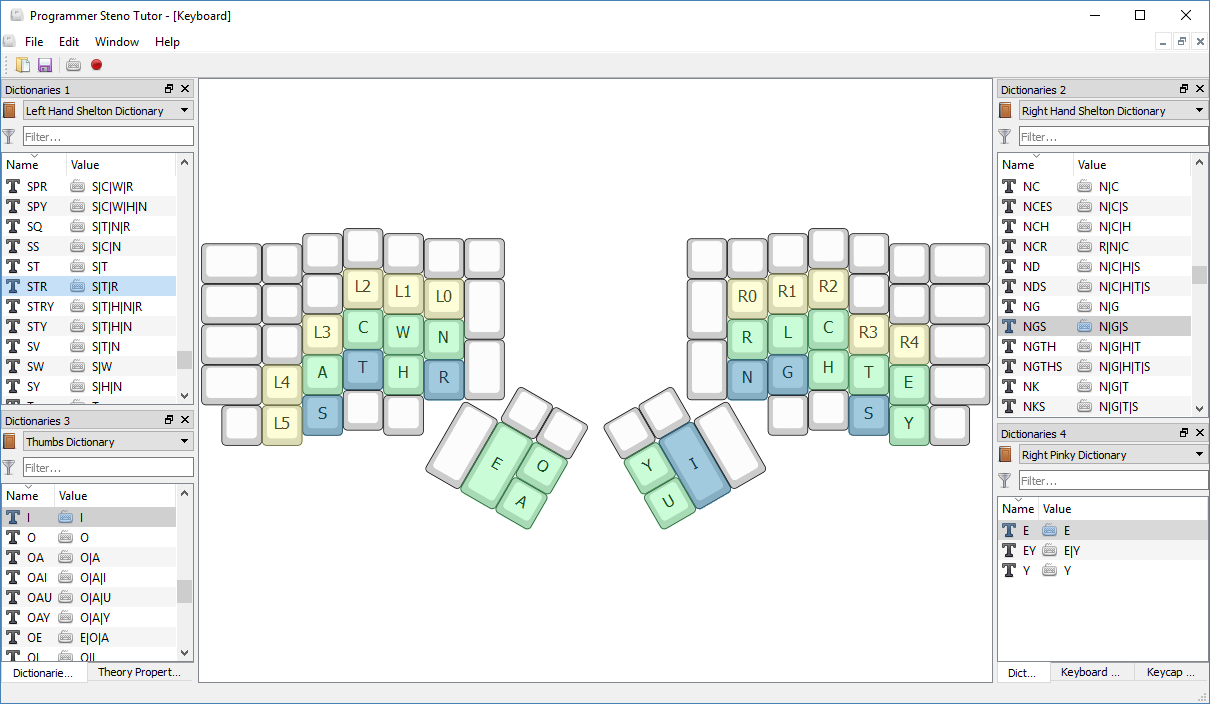
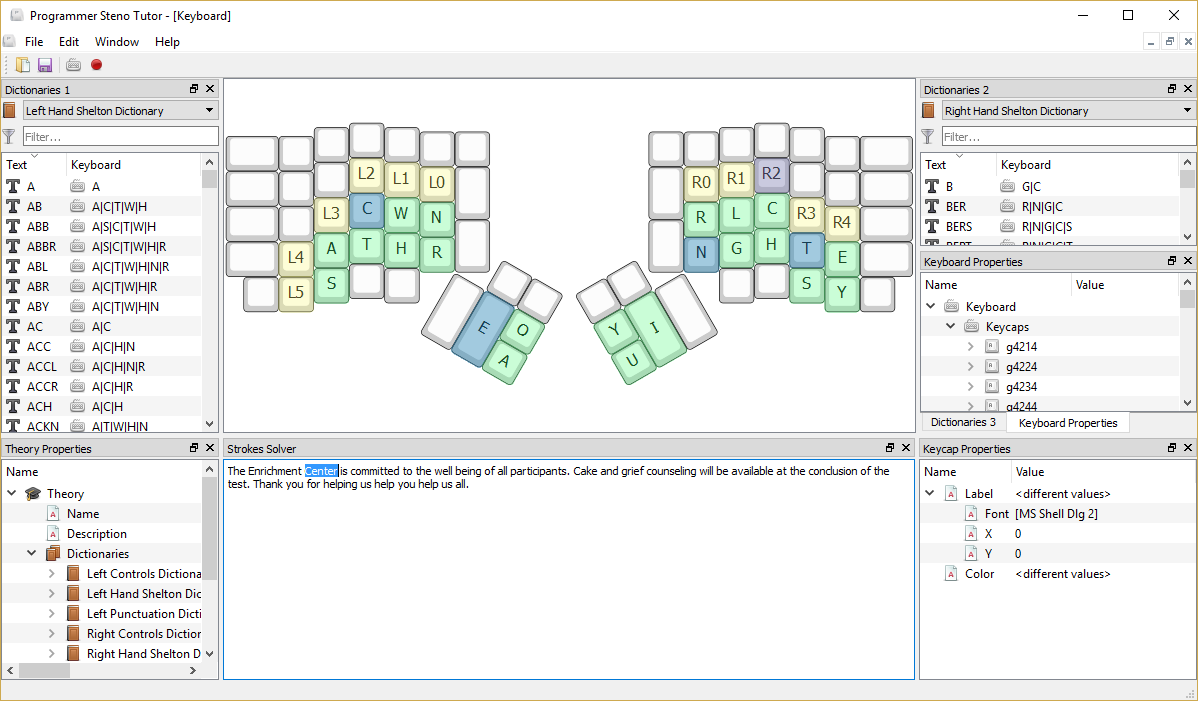
Strokes solver done

diff --git a/Sources/StrokesSolver/StrokesSolverTextEdit.cpp b/Sources/StrokesSolver/StrokesSolverTextEdit.cpp
@@ -1,0 +1,107 @@
+// ======================================================================
+// This file is a part of the ProgrammerStenoTutor project
+//
+// Copyright (C) 2017  Vissale NEANG <fromtonrouge at gmail dot com>
+//
+// This program is free software: you can redistribute it and/or modify
+// it under the terms of the GNU General Public License as published by
+// the Free Software Foundation, either version 3 of the License, or
+// (at your option) any later version.
+//
+// This program is distributed in the hope that it will be useful,
+// but WITHOUT ANY WARRANTY; without even the implied warranty of
+// MERCHANTABILITY or FITNESS FOR A PARTICULAR PURPOSE.  See the
+// GNU General Public License for more details.
+//
+// You should have received a copy of the GNU General Public License
+// along with this program.  If not, see <http://www.gnu.org/licenses/>.
+// ======================================================================
+
+#include "StrokesSolverTextEdit.h"
+#include "Theories/TheoryModel.h"
+#include "Main/Application.h"
+#include <QtCore/QRegularExpression>
+#include <QtCore/QDebug>
+
+StrokesSolverTextEdit::StrokesSolverTextEdit(QWidget* pParent)
+    : QTextEdit(pParent)
+{
+    connect(this, SIGNAL(cursorPositionChanged()), this, SLOT(onCursorPositionChanged()));
+}
+
+void StrokesSolverTextEdit::onCursorPositionChanged()
+{
+    // Hard coded at the moment
+    QStringList dictionariesToParse;
+    dictionariesToParse << "Left Hand Shelton Dictionary";
+    dictionariesToParse << "Thumbs Bigrams Dictionary";
+    dictionariesToParse << "Thumbs Dictionary";
+    dictionariesToParse << "Right Hand Shelton Dictionary";
+    dictionariesToParse << "Right Controls Dictionary";
+    dictionariesToParse << "Right Pinky Dictionary";
+    //dictionariesToParse << "Left Punctuation Dictionary";
+    //dictionariesToParse << "Right Punctuation Dictionary";
+
+    for (const auto& sDictionaryName : dictionariesToParse)
+    {
+        emit strokeFound(sDictionaryName, QBitArray());
+    }
+
+    // Check first if we have cached dictionaries data
+    auto pTheoryModel = qApp->getTheoryModel();
+    const auto& dictionaries = pTheoryModel->getCachedDictionaries();
+    if (dictionaries.isEmpty())
+    {
+        return;
+    }
+
+    // Get the next word to solve from the current cursor position
+    auto cursor = textCursor();
+    QTextCursor findCursor = document()->find(QRegularExpression("[ \\t]"), cursor);
+    if (findCursor.isNull())
+    {
+        cursor.movePosition(QTextCursor::EndOfWord, QTextCursor::KeepAnchor);
+    }
+    else
+    {
+        cursor.setPosition(findCursor.position(), QTextCursor::KeepAnchor);
+    }
+
+    QString sTextToSolve = cursor.selectedText().toUpper();
+    if (sTextToSolve == " ")
+    {
+        cursor.movePosition(QTextCursor::EndOfWord, QTextCursor::KeepAnchor);
+        sTextToSolve = cursor.selectedText().toUpper();
+    }
+
+    if (!sTextToSolve.isEmpty())
+    {
+        sTextToSolve = sTextToSolve.trimmed(); // Remove leading space
+
+        // Try to find a match for the first dictionary
+        auto itDictionary = dictionariesToParse.begin();
+        while (itDictionary != dictionariesToParse.end())
+        {
+            QBitArray bits;
+            auto entries = dictionaries[*itDictionary];
+            const int iSize = sTextToSolve.size();
+            for (int iChar = iSize - 1; iChar >= 0; --iChar)
+            {
+                const QString& subString = sTextToSolve.left(iChar + 1);
+                auto itEntry = entries.find(subString);
+                if (itEntry != entries.end())
+                {
+                    bits = itEntry.value();
+                    sTextToSolve = sTextToSolve.right(iSize - iChar - 1);
+                    break;
+                }
+            }
+
+            if (!bits.isNull())
+            {
+                emit strokeFound(*itDictionary, bits);
+            }
+            itDictionary++;
+        }
+    }
+}

diff --git a/Sources/Theories/TheoryModel.cpp b/Sources/Theories/TheoryModel.cpp
@@ -63,12 +63,15 @@ QVariant TheoryModel::data(const QModelIndex& index, int iRole) const
 void TheoryModel::setDictionaries(const Dictionaries& dictionaries)
 {
     auto pTheoryTreeItem = getTheoryTreeItem();
+
+    // Clear existing dictionaries
     auto pDictionaries = pTheoryTreeItem->getDictionaries();
     if (pDictionaries->hasChildren())
     {
         pDictionaries->removeRows(0, pDictionaries->rowCount());
     }
 
+    // Insert new dictionaries
     for (const auto& dictionary : dictionaries)
     {
         auto pDictionaryItem = new DictionaryTreeItem(dictionary.getName(), dictionary.getKeysLabels());
@@ -91,6 +94,8 @@ void TheoryModel::setDictionaries(const Dictionaries& dictionaries)
             }
         }
     }
+
+    buildCache();
     emit dictionariesLoaded();
 }
 
@@ -104,6 +109,8 @@ void TheoryModel::setTheoryTreeItem(TheoryTreeItem* pTheoryTreeItem)
 {
     clear();
     appendRow({pTheoryTreeItem, new EmptyTreeItem()});
+
+    buildCache();
     emit dictionariesLoaded();
     setHorizontalHeaderLabels(QStringList() << tr("Name") << tr("Value"));
 }
@@ -135,4 +142,44 @@ QString TheoryModel::getTheoryName() const
         return indexTheoryName.data(Qt::DisplayRole).toString();
     }
     return QString();
+}
+
+void TheoryModel::buildCache()
+{
+    _cache.clear();
+    const QModelIndex& indexDictionaries = getDictionariesIndex();
+    if (indexDictionaries.isValid())
+    {
+        const int iDictionaries = rowCount(indexDictionaries);
+        for (int iDictionary = 0; iDictionary < iDictionaries; ++iDictionary)
+        {
+            const QModelIndex& indexDictionary = index(iDictionary, 0, indexDictionaries);
+            const QString& sDictionaryName = indexDictionary.data(Qt::DisplayRole).toString();
+            if (!sDictionaryName.isEmpty())
+            {
+                const QModelIndex& indexEntries = Utils::index(this, "Entries", 0, indexDictionary);
+                if (indexEntries.isValid())
+                {
+                    CacheDictionaryEntries entries;
+                    const int iEntries = rowCount(indexEntries);
+                    for (int iEntry = 0; iEntry < iEntries; ++iEntry)
+                    {
+                        const QModelIndex& indexEntry = index(iEntry, 0, indexEntries);
+                        const QModelIndex& indexEntryBits = index(iEntry, 1, indexEntries);
+                        const QString& sText = indexEntry.data(Qt::DisplayRole).toString();
+                        const QBitArray& bits = indexEntryBits.data(InputKeyBitsRole).toBitArray();
+                        if (sText != "<no_entry>")
+                        {
+                            entries.insert(sText, bits);
+                        }
+                    }
+
+                    if (!entries.isEmpty())
+                    {
+                        _cache.insert(sDictionaryName, entries);
+                    }
+                }
+            }
+        }
+    }
 }

diff --git a/Sources/Keyboards/KeyboardModel.cpp b/Sources/Keyboards/KeyboardModel.cpp
@@ -248,23 +248,28 @@ void KeyboardModel::selectLinkedKeys(const QString& sDictionaryName, const QBitA
             if (indexLinkedKeys.isValid())
             {
                 const int iLinkedKeycaps = rowCount(indexLinkedKeys);
-                if (iLinkedKeycaps == inputsKeysBits.size())
+                QVector<QPair<QString, bool>> keycapsStates(iLinkedKeycaps);
+                for (int iLinkedKeycap = 0; iLinkedKeycap < iLinkedKeycaps; ++iLinkedKeycap)
                 {
-                    QVector<QPair<QString, bool>> keycapsStates(inputsKeysBits.size());
-                    for (int iLinkedKeycap = 0; iLinkedKeycap < iLinkedKeycaps; ++iLinkedKeycap)
+                    const QModelIndex& indexKeycapId = indexLinkedKeys.child(iLinkedKeycap, 1);
+                    const QVariant& variant = indexKeycapId.data(Qt::EditRole);
+                    if (variant.isValid())
                     {
-                        const QModelIndex& indexKeycapId = indexLinkedKeys.child(iLinkedKeycap, 1);
-                        const QVariant& variant = indexKeycapId.data(Qt::EditRole);
-                        if (variant.isValid())
+                        const auto& keycapRef = qvariant_cast<KeycapRef>(variant);
+                        keycapsStates[iLinkedKeycap].first = keycapRef.keycapId;
+
+                        if (inputsKeysBits.size() > iLinkedKeycap)
                         {
-                            const auto& keycapRef = qvariant_cast<KeycapRef>(variant);
-                            keycapsStates[iLinkedKeycap].first = keycapRef.keycapId;
                             keycapsStates[iLinkedKeycap].second = inputsKeysBits.testBit(iLinkedKeycap);
                         }
+                        else
+                        {
+                            keycapsStates[iLinkedKeycap].second = false;
+                        }
                     }
-
-                    emit linkedKeycapsStates(keycapsStates);
                 }
+
+                emit linkedKeycapsStates(keycapsStates);
             }
         }
     }

diff --git a/Sources/StrokesSolver/StrokesSolverTextEdit.h b/Sources/StrokesSolver/StrokesSolverTextEdit.h
@@ -1,0 +1,36 @@
+// ======================================================================
+// This file is a part of the ProgrammerStenoTutor project
+//
+// Copyright (C) 2017  Vissale NEANG <fromtonrouge at gmail dot com>
+//
+// This program is free software: you can redistribute it and/or modify
+// it under the terms of the GNU General Public License as published by
+// the Free Software Foundation, either version 3 of the License, or
+// (at your option) any later version.
+//
+// This program is distributed in the hope that it will be useful,
+// but WITHOUT ANY WARRANTY; without even the implied warranty of
+// MERCHANTABILITY or FITNESS FOR A PARTICULAR PURPOSE.  See the
+// GNU General Public License for more details.
+//
+// You should have received a copy of the GNU General Public License
+// along with this program.  If not, see <http://www.gnu.org/licenses/>.
+// ======================================================================
+
+#pragma once
+
+#include <QtWidgets/QTextEdit>
+
+class StrokesSolverTextEdit : public QTextEdit
+{
+    Q_OBJECT
+
+signals:
+    void strokeFound(const QString& sDictionaryName, const QBitArray& inputsKeysBits);
+
+public:
+    StrokesSolverTextEdit(QWidget* pParent = nullptr);
+
+protected slots:
+    void onCursorPositionChanged();
+};

diff --git a/Sources/Theories/TheoryModel.h b/Sources/Theories/TheoryModel.h
@@ -21,6 +21,9 @@
 
 #include "Dictionaries/Dictionary.h"
 #include "Models/TreeItemModel.h"
+#include <QtCore/QHash>
+#include <QtCore/QMultiHash>
+#include <QtCore/QBitArray>
 
 class TheoryTreeItem;
 class TheoryModel : public TreeItemModel
@@ -29,6 +32,10 @@ class TheoryModel : public TreeItemModel
 
 signals:
     void dictionariesLoaded();
+
+public:
+    typedef QMultiHash<QString, QBitArray> CacheDictionaryEntries; ///< Key = text, value = keyboard keys bits.
+    typedef QHash<QString, CacheDictionaryEntries> CacheDictionaries; ///< Key = dictionary name, value = CacheDictionaryEntries.
 
 public:
     TheoryModel(QObject* pParent = nullptr);
@@ -40,4 +47,11 @@ public:
     QModelIndex getTheoryIndex() const;
     QModelIndex getDictionariesIndex() const;
     QString getTheoryName() const;
+    const CacheDictionaries& getCachedDictionaries() const {return _cache;}
+
+private:
+    void buildCache();
+
+private:
+    CacheDictionaries _cache; ///<  Cache for fast lookup.
 };

diff --git a/Sources/Main/MainWindow.cpp b/Sources/Main/MainWindow.cpp
@@ -102,6 +102,7 @@ MainWindow::MainWindow(QWidget *parent)
     connect(_pUi->widgetDictionaries2, SIGNAL(dictionaryEntrySelected(QString, QBitArray)), pKeyboardModel, SLOT(selectLinkedKeys(QString, QBitArray)));
     connect(_pUi->widgetDictionaries3, SIGNAL(dictionaryEntrySelected(QString, QBitArray)), pKeyboardModel, SLOT(selectLinkedKeys(QString, QBitArray)));
     connect(_pUi->widgetDictionaries4, SIGNAL(dictionaryEntrySelected(QString, QBitArray)), pKeyboardModel, SLOT(selectLinkedKeys(QString, QBitArray)));
+    connect(_pUi->widgetStrokesSolver->findChild<QTextEdit*>("textEdit"), SIGNAL(strokeFound(QString, QBitArray)), pKeyboardModel, SLOT(selectLinkedKeys(QString, QBitArray)));
 
     _pUi->treeViewKeyboardProperties->setModel(qApp->getUndoableKeyboardModel());
     _pKeyboardGraphicsScene->setKeyboardProperties(_pUi->treeViewKeyboardProperties);
